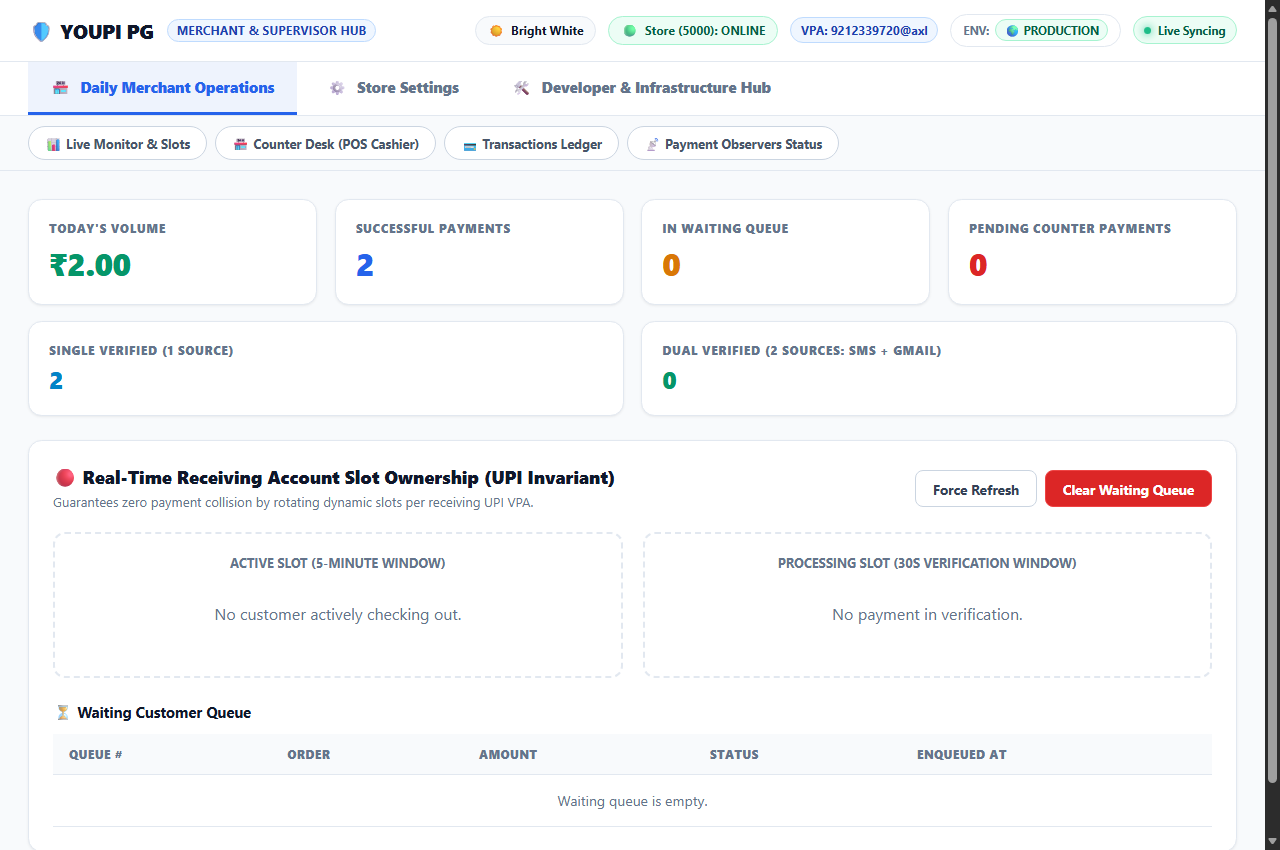
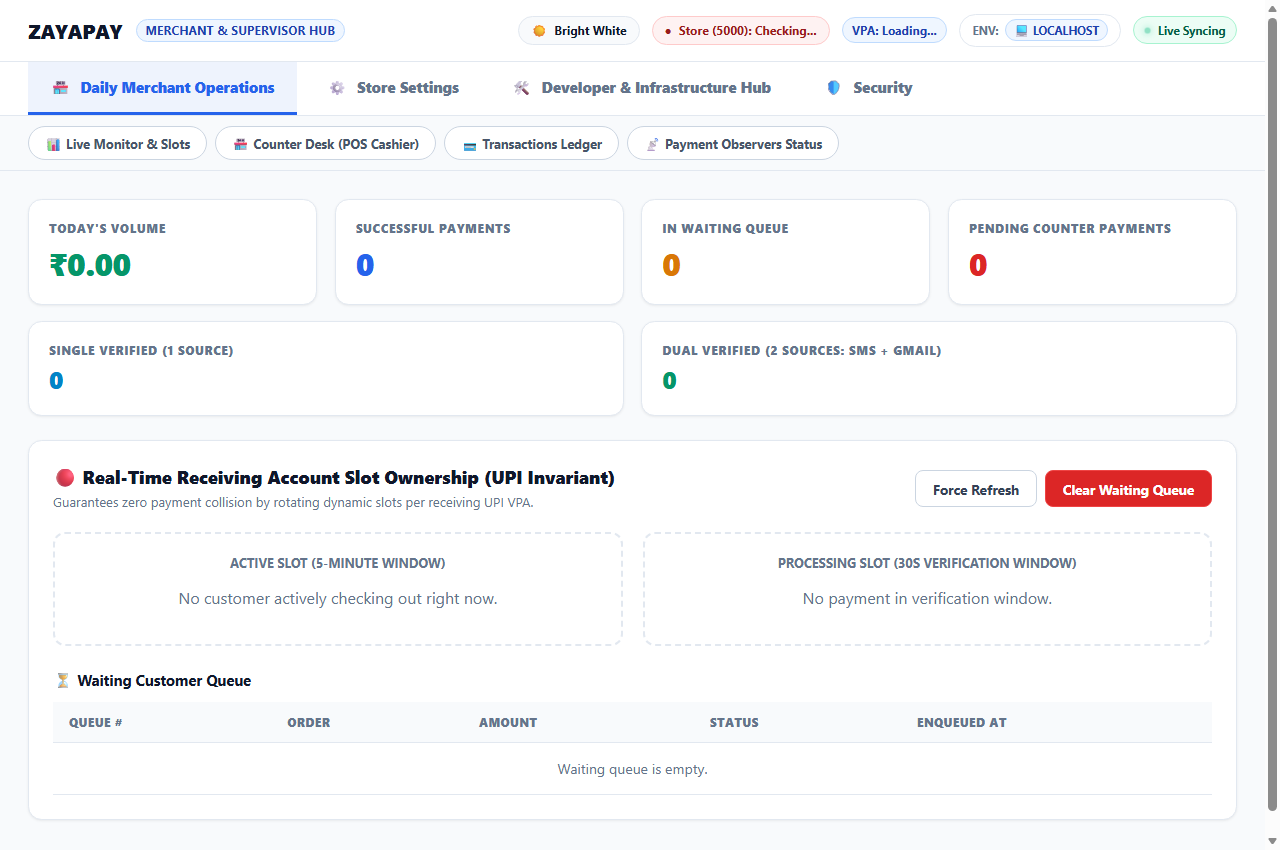
fix(store): replace legacy Gaurav store screenshots with authentic ZAYA CODE HUB assets and bump cache to v=3

diff --git a/apps/coin-wallet-store/src/store.html b/apps/coin-wallet-store/src/store.html
@@ -998,7 +998,7 @@
       <!-- LEFT COLUMN: INTERACTIVE VISUAL GALLERY -->
       <div class="gallery-column" id="gallery">
         <div class="gallery-main-viewport" onclick="openLightbox()" title="Click to view full-resolution screenshot">
-          <img id="mainGalleryImg" class="gallery-main-img" src="/assets/gateway_pc_checkout.png?v=2" alt="YOUPI PG Desktop Checkout View" />
+          <img id="mainGalleryImg" class="gallery-main-img" src="/assets/gateway_pc_checkout.png?v=3" alt="ZAYAPAY Desktop Checkout View" />
           <div class="gallery-zoom-hint">
             <span>🔍</span>
             <span>Click to Enlarge</span>
@@ -1007,20 +1007,20 @@
 
         <!-- 5 High-Res Gateway Screenshots Carousel -->
         <div class="thumbnails-grid">
-          <div class="thumb-card active" onclick="switchGalleryPhoto(0, '/assets/gateway_pc_checkout.png?v=2', 'Desktop 2-Column Checkout', 'Authentic desktop 2-column checkout frame with real-time dynamic QR, clean card at counter, live order summary, and verified merchant branding.')">
-            <img src="/assets/gateway_pc_checkout.png?v=2" alt="PC Checkout" />
+          <div class="thumb-card active" onclick="switchGalleryPhoto(0, '/assets/gateway_pc_checkout.png?v=3', 'Desktop 2-Column Checkout', 'Authentic desktop 2-column checkout frame with real-time dynamic QR, clean card at counter, live order summary, and verified merchant branding.')">
+            <img src="/assets/gateway_pc_checkout.png?v=3" alt="PC Checkout" />
           </div>
-          <div class="thumb-card" onclick="switchGalleryPhoto(1, '/assets/gateway_mobile_checkout.png?v=2', 'Mobile Instant Sheet &amp; UPI Intent', 'Native fluid mobile checkout bottom sheet with instant UPI app deep-linking (GPay, PhonePe, Paytm, CRED).')">
-            <img src="/assets/gateway_mobile_checkout.png?v=2" alt="Mobile Checkout" />
+          <div class="thumb-card" onclick="switchGalleryPhoto(1, '/assets/gateway_mobile_checkout.png?v=3', 'Mobile Instant Sheet &amp; UPI Intent', 'Native fluid mobile checkout bottom sheet with instant UPI app deep-linking (GPay, PhonePe, Paytm, CRED).')">
+            <img src="/assets/gateway_mobile_checkout.png?v=3" alt="Mobile Checkout" />
           </div>
-          <div class="thumb-card" onclick="switchGalleryPhoto(2, '/assets/gateway_merchant_operations.png?v=2', 'Merchant Operations &amp; Live Slots Hub', 'Crisp bright white operations dashboard with real-time slot allocation, floating cashier till dock, and observers status.')">
-            <img src="/assets/gateway_merchant_operations.png?v=2" alt="Operations Hub" />
+          <div class="thumb-card" onclick="switchGalleryPhoto(2, '/assets/gateway_merchant_operations.png?v=3', 'Merchant Operations &amp; Live Slots Hub', 'Crisp bright white operations dashboard with real-time slot allocation, floating cashier till dock, and observers status.')">
+            <img src="/assets/gateway_merchant_operations.png?v=3" alt="Operations Hub" />
           </div>
-          <div class="thumb-card" onclick="switchGalleryPhoto(3, '/assets/gateway_developer_dark_hub.png?v=2', 'Developer Hub (Real Dark Mode)', 'Authentic obsidian real dark mode with multi-service supervisor, live host ports, and aggregate streaming terminal.')">
-            <img src="/assets/gateway_developer_dark_hub.png?v=2" alt="Developer Hub" />
+          <div class="thumb-card" onclick="switchGalleryPhoto(3, '/assets/gateway_developer_dark_hub.png?v=3', 'Developer Hub (Real Dark Mode)', 'Authentic obsidian real dark mode with multi-service supervisor, live host ports, and aggregate streaming terminal.')">
+            <img src="/assets/gateway_developer_dark_hub.png?v=3" alt="Developer Hub" />
           </div>
-          <div class="thumb-card" onclick="switchGalleryPhoto(4, '/assets/gateway_whitelabel_customizer.png?v=2', 'White-Label Customizer &amp; Mockup', 'Live smartphone reflection with instant brand logo, custom color palette, trust seals, and conversion banners.')">
-            <img src="/assets/gateway_whitelabel_customizer.png?v=2" alt="White-Label Customizer" />
+          <div class="thumb-card" onclick="switchGalleryPhoto(4, '/assets/gateway_whitelabel_customizer.png?v=3', 'White-Label Customizer &amp; Mockup', 'Live smartphone reflection with instant brand logo, custom color palette, trust seals, and conversion banners.')">
+            <img src="/assets/gateway_whitelabel_customizer.png?v=3" alt="White-Label Customizer" />
           </div>
         </div>
       </div>
@@ -1620,7 +1620,7 @@ app.post('/api/youpi-webhook', express.raw({ type: 'application/json' }), (req, 
   <!-- LIGHTBOX MODAL FOR FULL-RES IMAGE INSPECTION -->
   <div class="lightbox-modal" id="lightboxModal" onclick="closeLightbox(event)">
     <button type="button" class="lightbox-close-btn" onclick="closeLightbox()">✕</button>
-    <img id="lightboxImg" class="lightbox-img" src="/assets/gateway_pc_checkout.png" alt="Enlarged Gateway Photo" />
+    <img id="lightboxImg" class="lightbox-img" src="/assets/gateway_pc_checkout.png?v=3" alt="Enlarged Gateway Photo" />
   </div>
 
   <!-- PAYMENT SUCCESS CELEBRATION MODAL -->
@@ -1652,31 +1652,31 @@ app.post('/api/youpi-webhook', express.raw({ type: 'application/json' }), (req, 
     let currentAmount = 1.00;
     const photos = [
       {
-        url: '/assets/gateway_pc_checkout.png?v=2',
+        url: '/assets/gateway_pc_checkout.png?v=3',
         badge: '💻 Desktop 2-Column Checkout',
         title: 'Desktop 2-Column Checkout',
         desc: 'Authentic desktop 2-column checkout frame with real-time dynamic QR, clean card at counter, live order summary, and verified merchant branding.'
       },
       {
-        url: '/assets/gateway_mobile_checkout.png?v=2',
+        url: '/assets/gateway_mobile_checkout.png?v=3',
         badge: '📱 Mobile Instant Sheet & UPI Intent',
         title: 'Mobile Instant Sheet & UPI Intent',
         desc: 'Native fluid mobile checkout bottom sheet with instant UPI app deep-linking (GPay, PhonePe, Paytm, CRED).'
       },
       {
-        url: '/assets/gateway_merchant_operations.png?v=2',
+        url: '/assets/gateway_merchant_operations.png?v=3',
         badge: '📊 Merchant Operations & Live Slots Hub',
         title: 'Merchant Operations & Live Slots Hub',
         desc: 'Crisp bright white operations dashboard with real-time slot allocation, floating cashier till dock, and observers status.'
       },
       {
-        url: '/assets/gateway_developer_dark_hub.png?v=2',
+        url: '/assets/gateway_developer_dark_hub.png?v=3',
         badge: '🌙 Developer Hub (Real Dark Mode)',
         title: 'Developer Hub (Real Dark Mode)',
         desc: 'Authentic obsidian real dark mode with multi-service supervisor, live host ports, and aggregate streaming terminal.'
       },
       {
-        url: '/assets/gateway_whitelabel_customizer.png?v=2',
+        url: '/assets/gateway_whitelabel_customizer.png?v=3',
         badge: '🎨 White-Label Customizer & Mockup',
         title: 'White-Label Customizer & Mockup',
         desc: 'Live smartphone reflection with instant brand logo, custom color palette, trust seals, and conversion banners.'

diff --git a/public/index.html b/public/index.html
@@ -998,7 +998,7 @@
       <!-- LEFT COLUMN: INTERACTIVE VISUAL GALLERY -->
       <div class="gallery-column" id="gallery">
         <div class="gallery-main-viewport" onclick="openLightbox()" title="Click to view full-resolution screenshot">
-          <img id="mainGalleryImg" class="gallery-main-img" src="/assets/gateway_pc_checkout.png?v=2" alt="YOUPI PG Desktop Checkout View" />
+          <img id="mainGalleryImg" class="gallery-main-img" src="/assets/gateway_pc_checkout.png?v=3" alt="ZAYAPAY Desktop Checkout View" />
           <div class="gallery-zoom-hint">
             <span>🔍</span>
             <span>Click to Enlarge</span>
@@ -1007,20 +1007,20 @@
 
         <!-- 5 High-Res Gateway Screenshots Carousel -->
         <div class="thumbnails-grid">
-          <div class="thumb-card active" onclick="switchGalleryPhoto(0, '/assets/gateway_pc_checkout.png?v=2', 'Desktop 2-Column Checkout', 'Authentic desktop 2-column checkout frame with real-time dynamic QR, clean card at counter, live order summary, and verified merchant branding.')">
-            <img src="/assets/gateway_pc_checkout.png?v=2" alt="PC Checkout" />
+          <div class="thumb-card active" onclick="switchGalleryPhoto(0, '/assets/gateway_pc_checkout.png?v=3', 'Desktop 2-Column Checkout', 'Authentic desktop 2-column checkout frame with real-time dynamic QR, clean card at counter, live order summary, and verified merchant branding.')">
+            <img src="/assets/gateway_pc_checkout.png?v=3" alt="PC Checkout" />
           </div>
-          <div class="thumb-card" onclick="switchGalleryPhoto(1, '/assets/gateway_mobile_checkout.png?v=2', 'Mobile Instant Sheet &amp; UPI Intent', 'Native fluid mobile checkout bottom sheet with instant UPI app deep-linking (GPay, PhonePe, Paytm, CRED).')">
-            <img src="/assets/gateway_mobile_checkout.png?v=2" alt="Mobile Checkout" />
+          <div class="thumb-card" onclick="switchGalleryPhoto(1, '/assets/gateway_mobile_checkout.png?v=3', 'Mobile Instant Sheet &amp; UPI Intent', 'Native fluid mobile checkout bottom sheet with instant UPI app deep-linking (GPay, PhonePe, Paytm, CRED).')">
+            <img src="/assets/gateway_mobile_checkout.png?v=3" alt="Mobile Checkout" />
           </div>
-          <div class="thumb-card" onclick="switchGalleryPhoto(2, '/assets/gateway_merchant_operations.png?v=2', 'Merchant Operations &amp; Live Slots Hub', 'Crisp bright white operations dashboard with real-time slot allocation, floating cashier till dock, and observers status.')">
-            <img src="/assets/gateway_merchant_operations.png?v=2" alt="Operations Hub" />
+          <div class="thumb-card" onclick="switchGalleryPhoto(2, '/assets/gateway_merchant_operations.png?v=3', 'Merchant Operations &amp; Live Slots Hub', 'Crisp bright white operations dashboard with real-time slot allocation, floating cashier till dock, and observers status.')">
+            <img src="/assets/gateway_merchant_operations.png?v=3" alt="Operations Hub" />
           </div>
-          <div class="thumb-card" onclick="switchGalleryPhoto(3, '/assets/gateway_developer_dark_hub.png?v=2', 'Developer Hub (Real Dark Mode)', 'Authentic obsidian real dark mode with multi-service supervisor, live host ports, and aggregate streaming terminal.')">
-            <img src="/assets/gateway_developer_dark_hub.png?v=2" alt="Developer Hub" />
+          <div class="thumb-card" onclick="switchGalleryPhoto(3, '/assets/gateway_developer_dark_hub.png?v=3', 'Developer Hub (Real Dark Mode)', 'Authentic obsidian real dark mode with multi-service supervisor, live host ports, and aggregate streaming terminal.')">
+            <img src="/assets/gateway_developer_dark_hub.png?v=3" alt="Developer Hub" />
           </div>
-          <div class="thumb-card" onclick="switchGalleryPhoto(4, '/assets/gateway_whitelabel_customizer.png?v=2', 'White-Label Customizer &amp; Mockup', 'Live smartphone reflection with instant brand logo, custom color palette, trust seals, and conversion banners.')">
-            <img src="/assets/gateway_whitelabel_customizer.png?v=2" alt="White-Label Customizer" />
+          <div class="thumb-card" onclick="switchGalleryPhoto(4, '/assets/gateway_whitelabel_customizer.png?v=3', 'White-Label Customizer &amp; Mockup', 'Live smartphone reflection with instant brand logo, custom color palette, trust seals, and conversion banners.')">
+            <img src="/assets/gateway_whitelabel_customizer.png?v=3" alt="White-Label Customizer" />
           </div>
         </div>
       </div>
@@ -1620,7 +1620,7 @@ app.post('/api/youpi-webhook', express.raw({ type: 'application/json' }), (req, 
   <!-- LIGHTBOX MODAL FOR FULL-RES IMAGE INSPECTION -->
   <div class="lightbox-modal" id="lightboxModal" onclick="closeLightbox(event)">
     <button type="button" class="lightbox-close-btn" onclick="closeLightbox()">✕</button>
-    <img id="lightboxImg" class="lightbox-img" src="/assets/gateway_pc_checkout.png" alt="Enlarged Gateway Photo" />
+    <img id="lightboxImg" class="lightbox-img" src="/assets/gateway_pc_checkout.png?v=3" alt="Enlarged Gateway Photo" />
   </div>
 
   <!-- PAYMENT SUCCESS CELEBRATION MODAL -->
@@ -1652,31 +1652,31 @@ app.post('/api/youpi-webhook', express.raw({ type: 'application/json' }), (req, 
     let currentAmount = 1.00;
     const photos = [
       {
-        url: '/assets/gateway_pc_checkout.png?v=2',
+        url: '/assets/gateway_pc_checkout.png?v=3',
         badge: '💻 Desktop 2-Column Checkout',
         title: 'Desktop 2-Column Checkout',
         desc: 'Authentic desktop 2-column checkout frame with real-time dynamic QR, clean card at counter, live order summary, and verified merchant branding.'
       },
       {
-        url: '/assets/gateway_mobile_checkout.png?v=2',
+        url: '/assets/gateway_mobile_checkout.png?v=3',
         badge: '📱 Mobile Instant Sheet & UPI Intent',
         title: 'Mobile Instant Sheet & UPI Intent',
         desc: 'Native fluid mobile checkout bottom sheet with instant UPI app deep-linking (GPay, PhonePe, Paytm, CRED).'
       },
       {
-        url: '/assets/gateway_merchant_operations.png?v=2',
+        url: '/assets/gateway_merchant_operations.png?v=3',
         badge: '📊 Merchant Operations & Live Slots Hub',
         title: 'Merchant Operations & Live Slots Hub',
         desc: 'Crisp bright white operations dashboard with real-time slot allocation, floating cashier till dock, and observers status.'
       },
       {
-        url: '/assets/gateway_developer_dark_hub.png?v=2',
+        url: '/assets/gateway_developer_dark_hub.png?v=3',
         badge: '🌙 Developer Hub (Real Dark Mode)',
         title: 'Developer Hub (Real Dark Mode)',
         desc: 'Authentic obsidian real dark mode with multi-service supervisor, live host ports, and aggregate streaming terminal.'
       },
       {
-        url: '/assets/gateway_whitelabel_customizer.png?v=2',
+        url: '/assets/gateway_whitelabel_customizer.png?v=3',
         badge: '🎨 White-Label Customizer & Mockup',
         title: 'White-Label Customizer & Mockup',
         desc: 'Live smartphone reflection with instant brand logo, custom color palette, trust seals, and conversion banners.'
